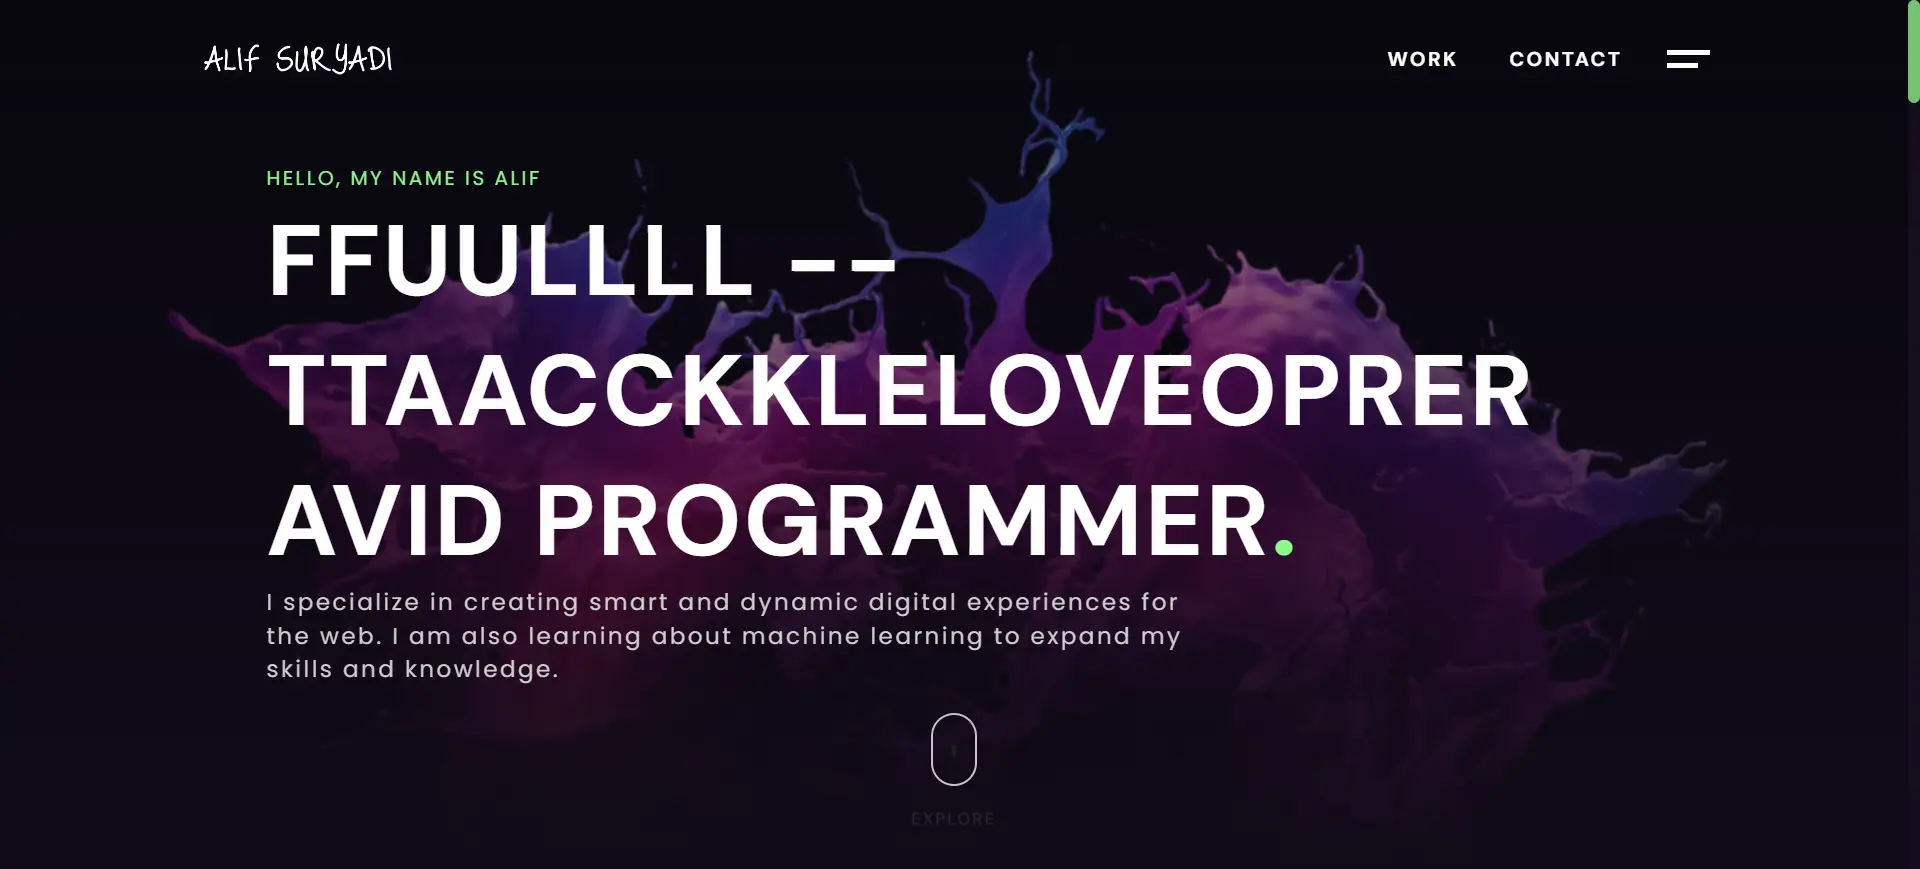
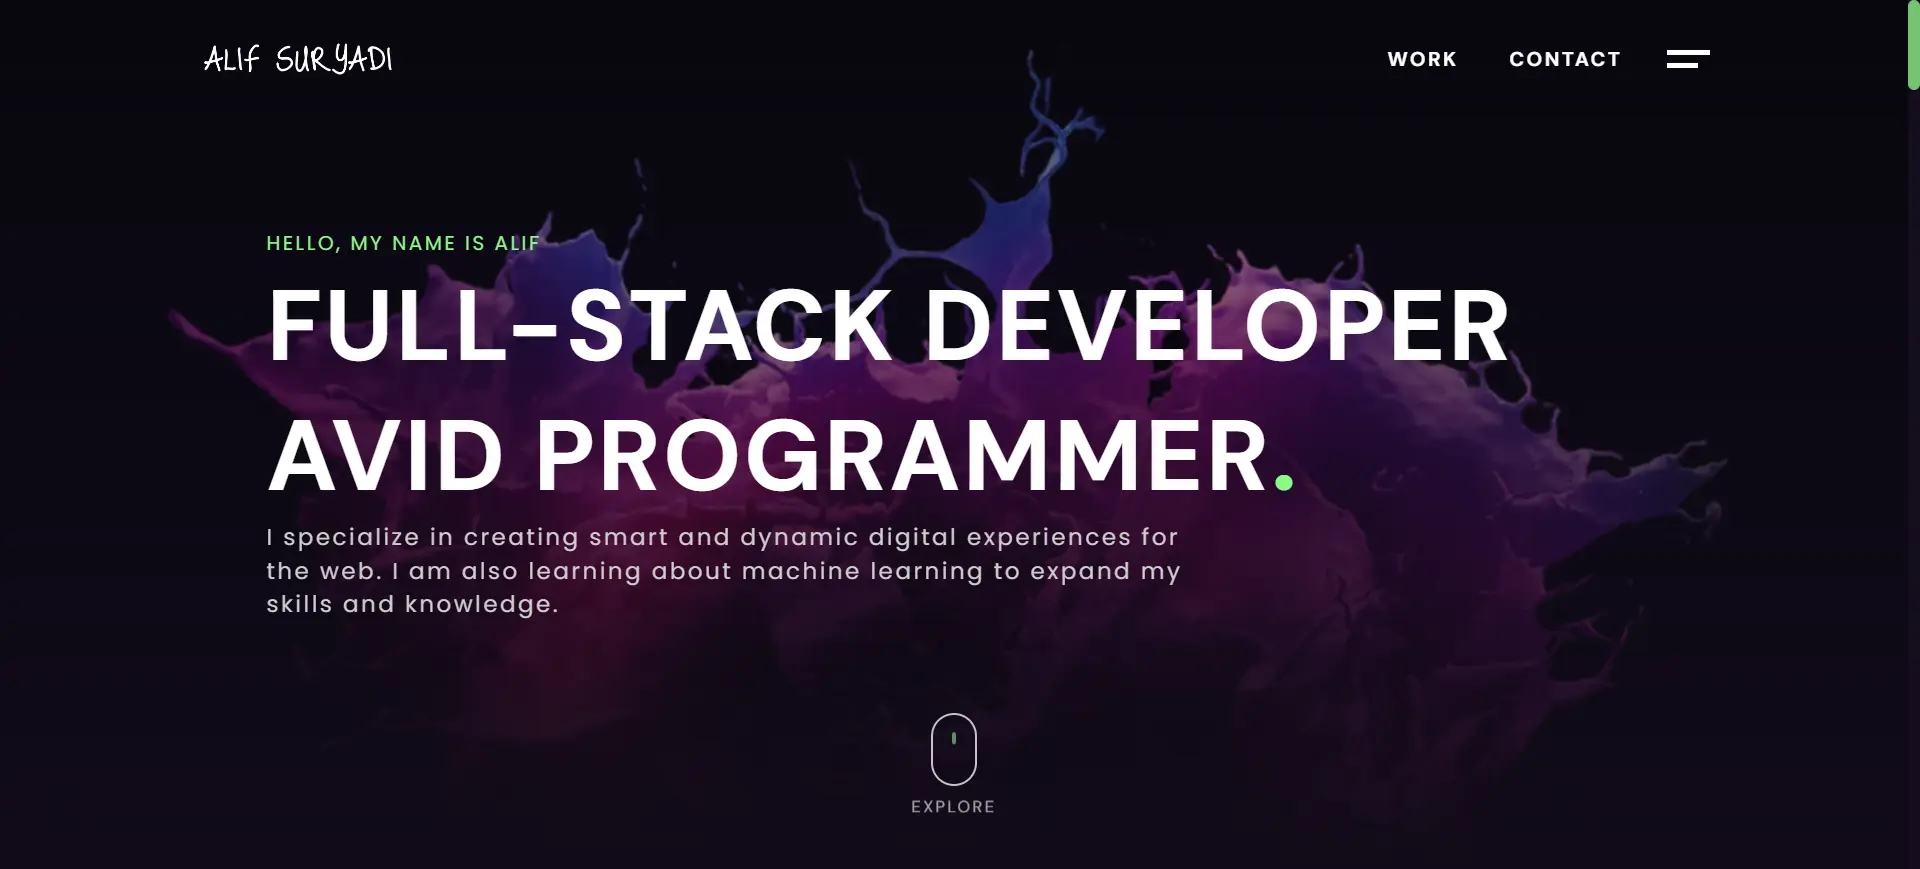
change img bg & remove typeit package

diff --git a/src/ui/components/name-typing/Name.jsx b/src/ui/components/name-typing/Name.jsx
@@ -15,7 +15,7 @@ export const Name = () => {
         "",
         500,
         "Full Sta",
-        200,
+        300,
         "Full",
         1000,
         "Full-Stack",
